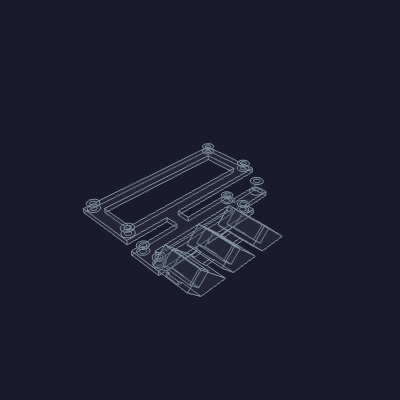
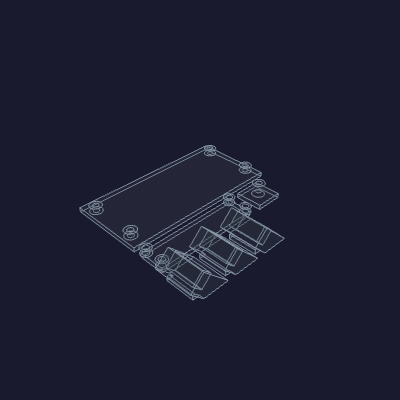
power-tray: floor filled in below each object (footprint pads)
Replace the rib skeleton with a footprint pad under each mounted part — PSU,
relay, ground ring-stack, and the three tilted Wagos (their XY projection). The
floor now reads as a rough map of the space each object occupies while the
layout is still being rearranged. Pads that don't touch are separate islands
(6 total) — a working arrangement, not yet one connected printed part.

Changed region(s): [[0.18, 0.36, 0.72, 0.75]]

diff --git a/hardware/printed-parts/electronics/power-tray/power_tray.py b/hardware/printed-parts/electronics/power-tray/power_tray.py
@@ -20,6 +20,7 @@ Y deep, Z up; origin at the floor's bottom-left corner, Z = 0 the floor
 underside, floor top at ``floor_t``.
 """
 
+import math
 import sys
 from pathlib import Path
 
@@ -119,43 +120,30 @@ def _insert_boss(px, py, d, h, depth):
     return boss.cut(bore)
 
 
-rib_w = 9.0            # floor-rib width (>= every boss diameter so a boss seats fully)
-
-
-def _rib(x0, y0, x1, y1):
-    """A floor rib (full plate thickness) between two points, extended half a rib
-    width past each end so corners and end bosses are fully seated."""
-    h = rib_w / 2.0
-    if abs(y1 - y0) < 1e-6:
-        a, b = sorted((x0, x1))
-        return _abox(a - h, b + h, y0 - h, y0 + h, 0.0, floor_t)
-    a, b = sorted((y0, y1))
-    return _abox(x0 - h, x0 + h, a - h, b + h, 0.0, floor_t)
+def _pad(cx, cy, w, d):
+    """A floor pad (full plate thickness) of footprint w x d centred at (cx,cy)."""
+    return _abox(cx - w / 2.0, cx + w / 2.0, cy - d / 2.0, cy + d / 2.0, 0.0, floor_t)
 
 
 def _build_floor():
-    """Skeleton floor — ribs only where they seat a boss/slot or tie features
-    together. No solid sheet: the PSU rides its four corner bosses, so the floor
-    under its body is removed; the same everywhere else."""
-    px0, px1 = psu_cx - psu.hole_dx, psu_cx + psu.hole_dx
-    py0, py1 = psu_cy - psu.hole_dy, psu_cy + psu.hole_dy
-    rx0, rx1 = relay_cx - relay.hole_dy, relay_cx + relay.hole_dy
-    ry0, ry1 = relay_cy - relay.hole_dx, relay_cy + relay.hole_dx
-    spine_x = 93.0
-    ribs = [
-        _rib(px0, py0, px1, py0), _rib(px0, py1, px1, py1),   # PSU front / back
-        _rib(px0, py0, px0, py1), _rib(px1, py0, px1, py1),   # PSU side rails
-        _rib(rx0, ry0, rx1, ry0), _rib(rx0, ry1, rx1, ry1),   # relay front / back
-        _rib(rx0, ry0, rx0, ry1), _rib(rx1, ry0, rx1, ry1),   # relay side rails
-        _rib(gnd_cx, ry1, gnd_cx, gnd_cy),                    # ground-boss rib
-        _rib(px1, relay_cy, rx0, relay_cy),                   # PSU -> relay bridge
-        _rib(rx1, 37.0, spine_x, 37.0),                       # relay -> Wago spine
-        _abox(spine_x - rib_w / 2.0, spine_x + rib_w / 2.0,   # Wago spine (ties the 3 slots)
-              wago_butt_ys[0] - 4.0, wago_butt_ys[-1] + 8.0, 0.0, floor_t),
+    """Floor filled in below each mounted object — one footprint pad per part, so
+    the floor reads as a rough map of the space each thing occupies. Pads that
+    don't touch are separate islands (this is a working layout, not yet a single
+    printed part)."""
+    s = math.sin(math.radians(wago_tilt))
+    c = math.cos(math.radians(wago_tilt))
+    wy0 = -wago.height * s        # tilted-Wago XY projection: butt-top corner
+    wy1 = wago.depth * c          #                            wire-bottom corner
+    pads = [
+        _pad(psu_cx, psu_cy, psu.width, psu.length),           # PSU body + ledges
+        _pad(relay_cx, relay_cy, relay.width, relay.length),   # relay PCB
+        _pad(gnd_cx, gnd_cy, 18.0, 18.0),                      # ground ring-stack fan
     ]
-    floor = ribs[0]
-    for r in ribs[1:]:
-        floor = floor.union(r)
+    for by in wago_butt_ys:
+        pads.append(_pad(wago_cx, by + (wy0 + wy1) / 2.0, wago.width, wy1 - wy0))
+    floor = pads[0]
+    for p in pads[1:]:
+        floor = floor.union(p)
     return floor
 
 

diff --git a/hardware/printed-parts/electronics/power-tray/README.md b/hardware/printed-parts/electronics/power-tray/README.md
@@ -52,14 +52,13 @@ than relying on a press fit.
 
 ## The tray
 
-A **skeleton floor** (~**100 × 115 mm** envelope, 3 mm thick) — ribs only where
-they seat a boss or slot or tie features together, no solid sheet. The PSU rides
-its four corner bosses, so the floor under its body is a hollow ring; likewise
-the relay. A bridge links the PSU and relay rings, a rib carries the ground
-boss, and a spine ties the three Wago slots in and back to the relay ring. Local
+The floor is **filled in below each object** — one 3 mm footprint pad per
+mounted part, so the floor reads as a rough map of the space each thing occupies
+while the layout is still being worked. Pads that don't touch are separate
+islands; this is a working arrangement, not yet a single printed part. Local
 frame: X right, Y deep, Z up; origin at the bottom-left corner. Zone-B placement,
-tray-to-enclosure joinery, and any added stiffening are deferred — this first
-pass just gets the loose parts attached to one printed part.
+joinery, and tying the pads into one connected, stiffened plate are deferred
+until the arrangement settles.
 
 `power_tray.py` → `power-tray.step`; `power_assembly.py` → `power-assembly.step`
 (tray + parts seated). Regenerate with `tools/cad-venv/bin/python <script>`.
